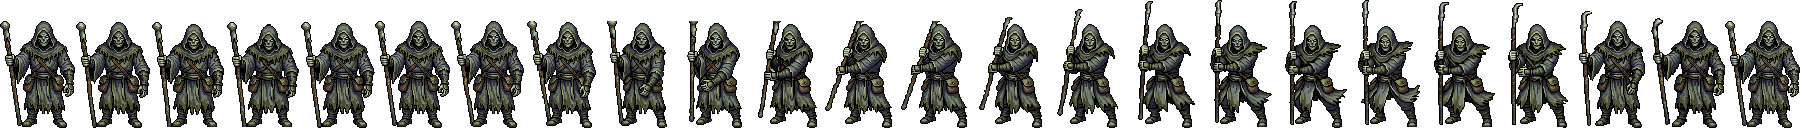
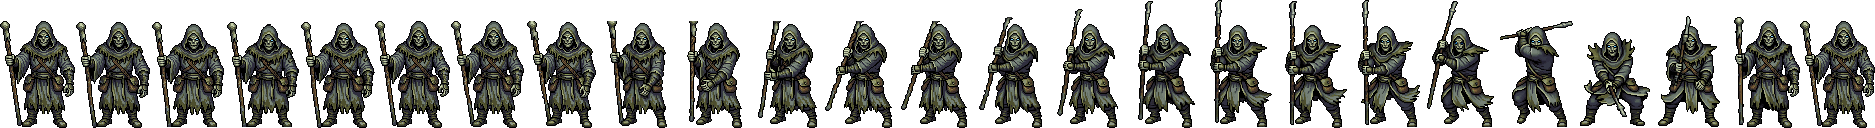
art: the Ferryman's release is a blow, not a rise (docket item 7)
`boss.ferryman`'s `strike` was a rise-and-settle: the pole went up and came
back down. The owner has now raised this three times, and the wiring was never
the problem — the art in those frames was the wrong art. This authors the blow.

The strike is 12 frames (24 -> 25 cols): the shipped rise, unchanged, then the
pole swings over the top, then IMPACT, then recover, then rest. `cast` and the
six rise frames are byte-identical to what shipped, and the last strike frame
is the committed idle frame itself, so the hand-off back to the loop is
byte-identical too.

**No canvas change.** `w`, `h`, `worldScale` and `feet` are all untouched: the
blow travels DOWN into headroom the rise had already paid for. Only `cols` and
the `strike` range move.

The finding that decided the pose, which is not the one the docket predicted:
the Ferryman rests with his pole ALREADY butt-down on the ground, so the
obvious impact pose — slam it into the floor — terminates on a pose nearly
identical to rest. An animation ending on a rest-shaped pose is an unwind
however it is prompted, how many frames it gets, or what the tag is called.
That is the mechanical reason the old release read as a settle: a bad
destination, not a bad generation.

So the impact is differentiated on BODY (braced low stance, pole swept
diagonally across the body) rather than on weapon height, and it is checked as
a comparison against a reference the pose cannot move:

    apex   vs rest   2306 silhouette px
[…]

diff --git a/src/render/atlas/manifest.ts b/src/render/atlas/manifest.ts
@@ -201,18 +201,36 @@ export const ATLAS: Record<string, AtlasSprite> = {
   // 99.702600 x 69.885000 world units, before and after. `feet` is a fraction of `h` and
   // had to be re-derived (3.21px of ground offset over 128px instead of 107px).
   "boss.ferryman":            { id: "boss.ferryman",            w: 75,  h: 128, worldScale: 0.9318, feet: 0.025078,
-    anim: { cols: 24, tags: { idle:   { from: 0,  to: 4,  seconds: 0.22, loop: true },
+    anim: { cols: 25, tags: { idle:   { from: 0,  to: 4,  seconds: 0.22, loop: true },
                               // The generic wind-up: `cast` covers every ability the
                               // Ferryman has, and `seconds` is unread for a
                               // progress-keyed tag (see anim.ts#frameAtProgress).
                               cast:   { from: 5,  to: 12, seconds: 0.09, loop: false },
-                              // The release: a rise, not a blow — see boss.war-queen.
-                              // Both segments were PINNED at both ends because this
-                              // sprite's accent is two pixels and a free-form run drops
-                              // it entirely on some frames (measured: 0 cold pixels on
-                              // two of eight). Two settle frames whose accent still fell
-                              // below the hero's 35.3 were left out rather than shipped.
-                              strike: { from: 13, to: 23, seconds: 0.05, loop: false } } } },
+                              // The release, and this one IS a blow: rise (13-18, the
+                              // shipped frames, unchanged) -> the pole swings over the
+                              // top (19-20) -> IMPACT (21) -> recover (22-23) -> rest
+                              // (24, the committed idle frame itself, so the hand-off
+                              // back to the loop is byte-identical).
+                              //
+                              // The third pose is what makes it a blow rather than an
+                              // unwind, exactly as boss.war-queen's note predicted. Note
+                              // WHERE it had to be: this sprite rests with its pole
+                              // already butt-down on the ground, so "slam it down" ends
+                              // on a pose almost identical to rest — which is precisely
+                              // why the old release read as a settle. The impact pose is
+                              // therefore differentiated by BODY (braced low stance, pole
+                              // swept diagonally across the body) rather than by pole
+                              // height, and it measures further from rest (2378 silhouette
+                              // px) than the apex does (2306). A pose closer to rest than
+                              // the apex is cannot read as a strike, whatever it is called.
+                              //
+                              // Two sweep frames were dropped rather than shipped, both on
+                              // accent: one lost the eye entirely (unrepairable) and one
+                              // came back at one pixel per eye, which
+                              // repair-split-accent.py refuses BY DESIGN — a one-pixel
+                              // accent is not a split one. Do not widen it to force the
+                              // frame in; that is a change to shipped art.
+                              strike: { from: 13, to: 24, seconds: 0.05, loop: false } } } },
   // Animated: `w`/`h` are ONE FRAME.
   //
   // **The art in `strike` is a RISE, not a blow — read this before assuming it is done.**

diff --git a/art/anim/raw/ferryman-blow/README.md b/art/anim/raw/ferryman-blow/README.md
@@ -1,0 +1,68 @@
+The shipped `strike` frames for `boss.ferryman`, on the padded 75x131 canvas. This
+directory REPLACES `../ferryman-release` as the strike source; that one is kept because
+its f0-f5 are still the first six frames here, unchanged.
+
+**This is the repo's first release that is a blow rather than a rise.** Read
+`docs/animation.md` "The blow: where the third pose has to be" before regenerating any of
+it.
+
+f0-f5   the rise:    `../ferryman-release` f0-f5, BYTE-IDENTICAL. Approved art — the owner
+                     said so explicitly after the second misread ("the wind ups look
+                     really good"). Do not regenerate them.
+f6-f7   the sweep:   the pole swings over the top. `ferryman-blow-sweep` (pinned
+                     apex -> impact, seed 11) f2 and f4. Its f1, f3 and f5 are DROPPED:
+                     f1 barely moves, and f3/f5 both fail the accent bar — see below.
+f8      the IMPACT:  `../ferryman-slam-pad.png`, pinned, returned byte-identical.
+f9-f10  the recover: `ferryman-blow-recover` (pinned impact -> rest, seed 13) f2 and f5.
+                     Its f1 and f3 lost the accent entirely and f4 kept only a split, and
+                     all three are dropped; the survivors are monotonic toward rest
+                     (1988 -> 790 -> 0).
+f11     the rest:    `../ferryman-rest-pad.png` itself, not the generated final frame, so
+                     the hand-off back to the idle loop is byte-identical. The pinned run
+                     finished 2 silhouette px away, so this costs nothing and is exact.
+
+## Where the impact pose came from, and the trap it had to dodge
+
+`../ferryman-slam-pad.png` is the peak frame of a free-form harvest from the RAISED pose
+(seed 7, "drives the long pole straight down ... body drops into a deep crouch"), used as
+a pose generator exactly as step 3a describes. It needed no accent repair: it came back
+with 3 px of exact `#7dd3fc`, and `repair-split-accent.py` confirms there is nothing to
+repair.
+
+**The trap, and it is specific to this sprite: the Ferryman rests with his pole already
+butt-down on the ground.** So the obvious impact pose — "slam the pole into the floor" —
+terminates on a pose nearly identical to rest, and an animation from apex to a
+rest-shaped pose is an unwind however it is prompted. That is the mechanical reason the
+old release read as a settle, and no amount of reprompting a *downward* motion fixes it.
+
+The impact pose therefore differentiates on **body**, not pole height: braced low stance,
+pole swept diagonally across the body, mantle flared. Measured against the two endpoints
+it is further from rest (2378 silhouette px) than the apex is (2306) — which is the
+property that matters and the one to re-measure if this is ever regenerated. **A
+candidate impact pose closer to rest than the apex is cannot read as a strike.**
+
+## Two frames dropped on accent, and why one of them must stay dropped
+
+- sweep f5: no blue pixel above the robe's own grey anywhere. Unrepairable, dropped, the
+  same case `docs/animation.md` already records on the settle.
+- sweep f3: **one pixel per eye**, both drifted to `#b3ebf8`.
+  `repair-split-accent.py` refuses it and is **right** to — a one-pixel accent is not a
+  split one, and the script says so in those words. It was the only frame in either
+  generation sitting mid-downswing, so the temptation to force it in is real. Do not.
+  Widening the accent is a change to shipped art and wants the owner, which is the same
+  ruling `art/bosses/minotaur-accent.py` is parked under.
+
+Both generations of the sweep (seeds 11 and 29, 6 and 4 frames) put nearly all the travel
+in the LAST step regardless of prompt, so the downswing is genuinely fast rather than
+under-sampled. The seed-29 run is not used: its mid frame drops the pole out of the
+silhouette entirely, which reads as the weapon vanishing rather than as a smear.
+
+## What the measurement could not tell you
+
+Distance-to-target is **not** monotonic across the sweep (1856 -> 1804 -> 0), and that is
+not a defect: silhouette XOR cannot see a rotation, so a pole swinging through an arc
+reads as "wandering" to it. The motion that matters is monotonic in the thing the metric
+cannot measure — the pole's angle, and its content top: 3 -> 4 -> 24 -> 35 px.
+
+This is the same family as the caution in `docs/animation.md` about `npm run windup`
+ranking a settle as the best-travelling animation in the repo. **Look at the frames.**
